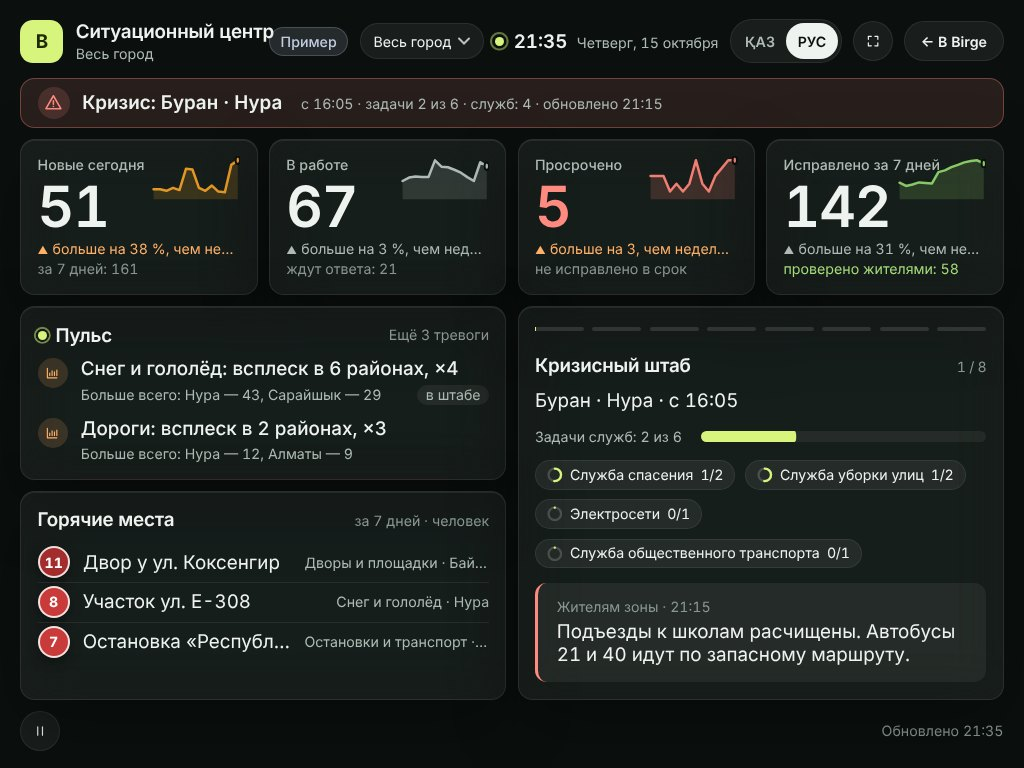
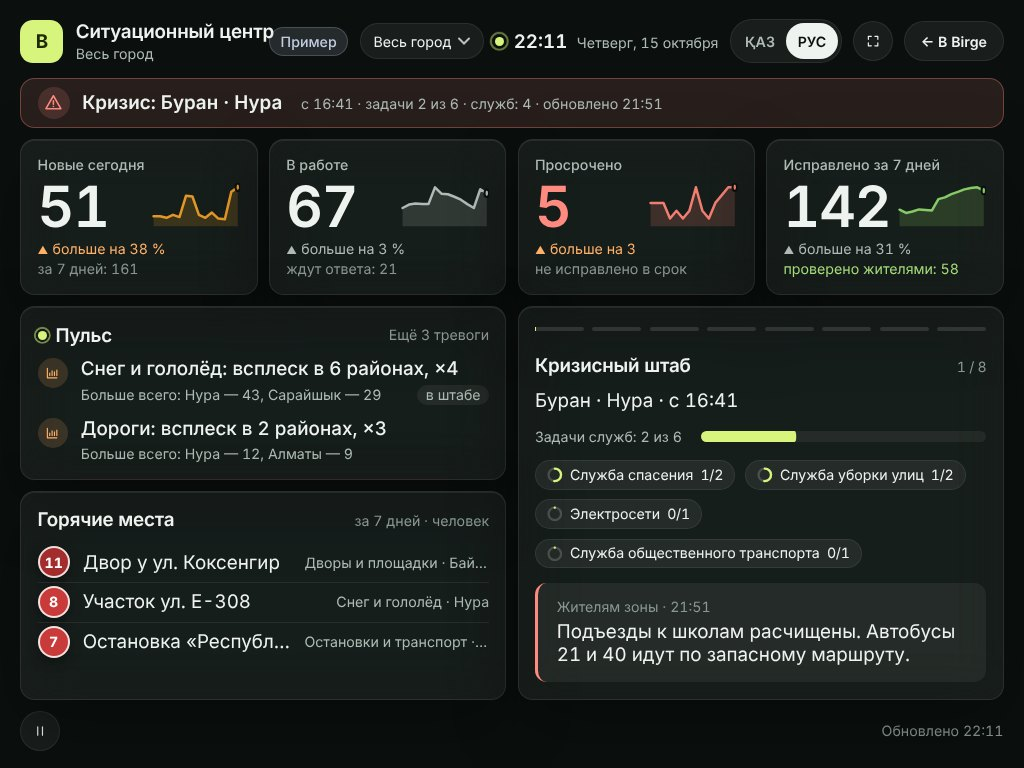
R08 r15: Situation Center at 1024–1279 px — KPI changes in the short form («больше на 17 %») instead of an ellipsis, and on 4:3 screens the sparkline sits beside the number so «Исправлено за 7 дней» is not under the line (board_check 88/88)
Claude-Session: https://claude.ai/code/session_018r6TJGaS4bd2uESPSKRjbJ

diff --git a/web/civic/board/board.js b/web/civic/board/board.js
@@ -778,7 +778,9 @@
         return h("article", { class: "sc-kpi sc-glass sc-kpi--" + k.id.replace("_week", "").replace("_day", "") }, [
           h("p", { class: "sc-kpi__label", text: tr(k.label) }),
           valueEl,
-          h("p", { class: "sc-kpi__delta", "data-trend": v.trend || "flat", "data-bad": String(k.bad === true && v.trend === "up"), text: deltaText(v) }),
+          // 1024–1279: «больше на 17 %» без «, чем неделю назад» — иначе строка обрезается многоточием (телефон — переносит).
+          h("p", { class: "sc-kpi__delta", "data-trend": v.trend || "flat", "data-bad": String(k.bad === true && v.trend === "up"),
+            text: !narrow() && root.innerWidth < 1280 ? deltaShort(v) : deltaText(v) }),
           note[0] ? h("p", { class: "sc-kpi__note" + (note[1] ? " sc-kpi__note--muted" : ""), text: note[0] }) : null,
           sparkline(v.series, k.color),
         ]);

diff --git a/web/civic/board/board.css b/web/civic/board/board.css
@@ -420,7 +420,8 @@ body.sc-page.sc-idle { cursor: none; }
 @media (min-width: 761px) and (max-aspect-ratio: 3/2) {
   .sc { --sc-fs-xl: max(40px, 7.4vh); --sc-fs-m: max(16px, 2.45vh); --sc-fs-s: max(13px, 1.85vh); }
   .sc-main { grid-template-columns: minmax(0, 1fr) minmax(0, 1fr); }
-  .sc-spark { width: 38%; }
+  /* узкая плитка: график — справа от числа, а не над подписью («Исправлено за 7 дней» не уходит под линию) */
+  .sc-spark { width: 38%; top: calc(var(--sc-pad) + 1.9 * var(--sc-fs-s)); }
   .sc-foot__keys { display: none; }
 }
 
